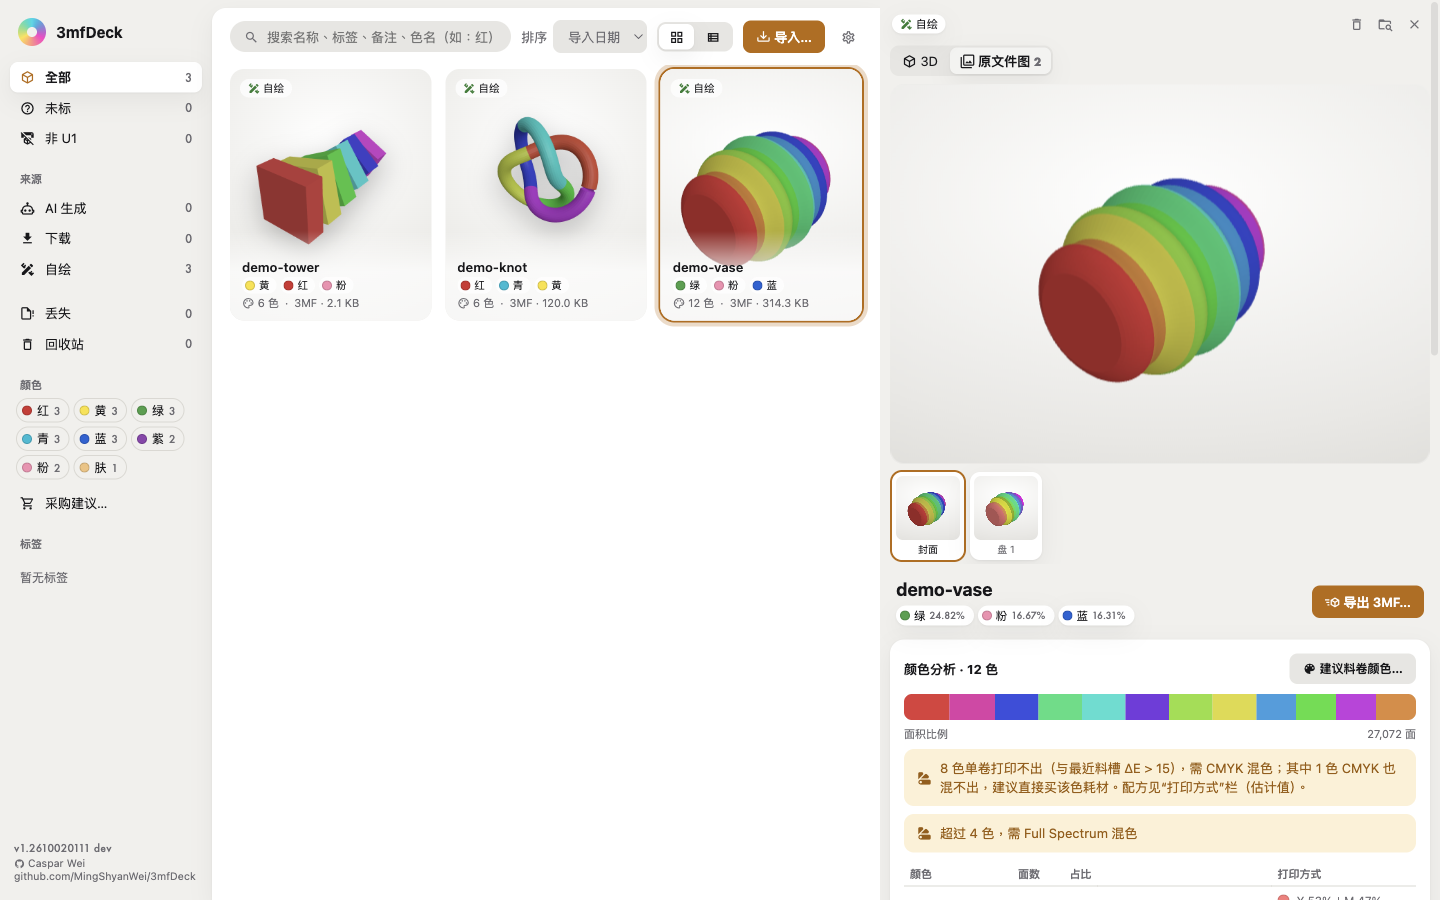
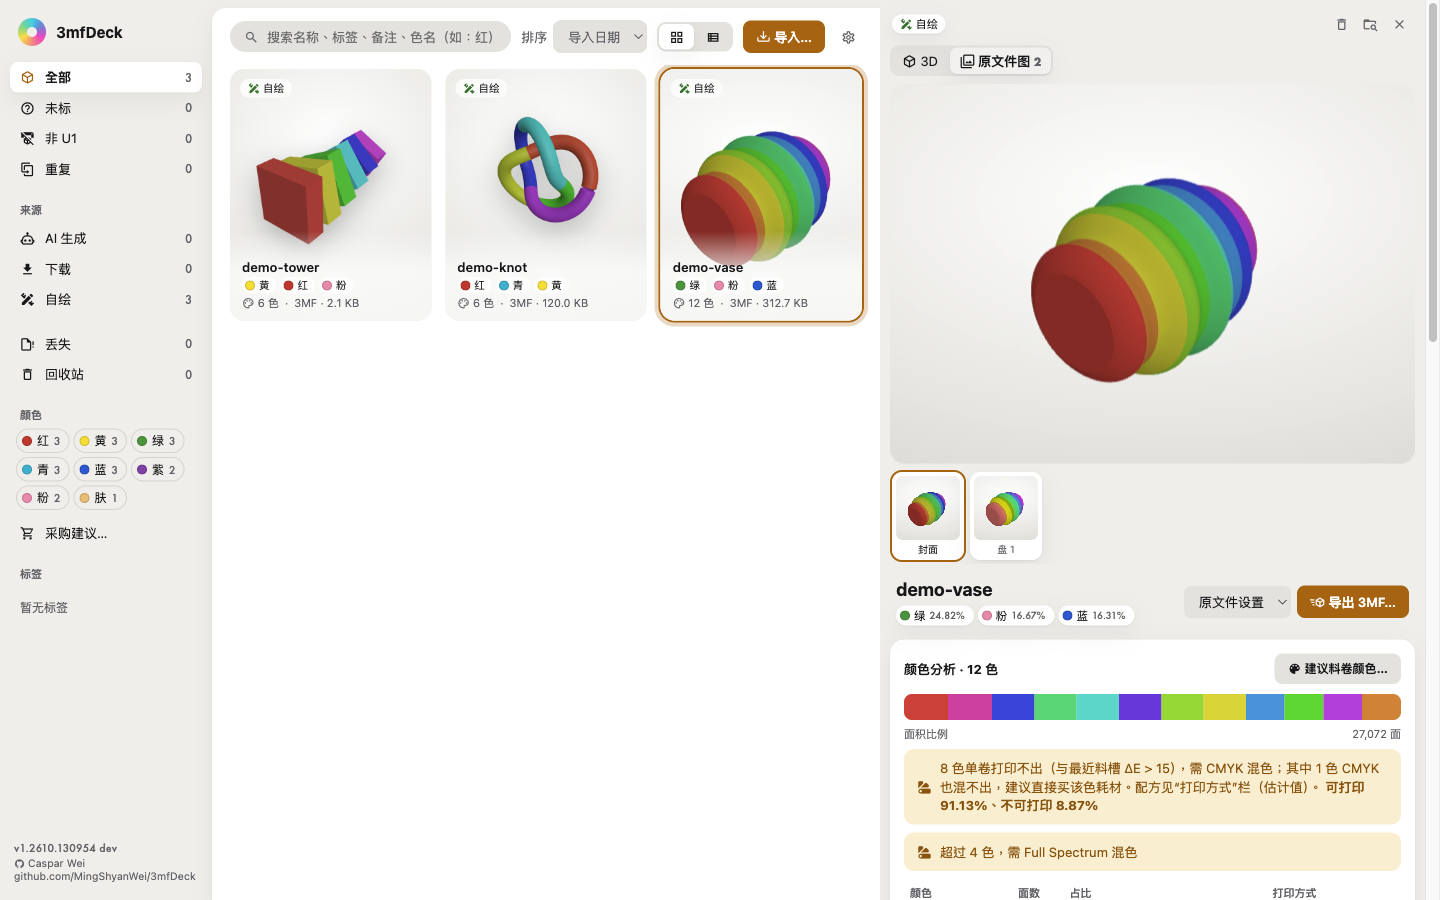
Screenshots of the M33 / M34 screens in the READMEs and user guides
The READMEs and guides describe the nozzle setting, the print-settings
drop-down and the Duplicates filter, but showed none of them.

- scripts/readme-screenshots.mjs adds three shots on the same demo
  library: 6-print-presets (demo-knot with 公仔 / Miniature and its hint),
  7-settings-nozzle, 8-duplicates (a byte-identical demo-tower copy placed
  in another folder, indexed, fingerprinted at the next start, then a
  second import of the same file skipped with its notice). The copy is
  labelled self-made like the other demo models.
- en / zh-TW / zh-CN all regenerated; shots 1-5 are re-rendered too
  (current build: the export drop-down now appears in the detail header).
- READMEs: the three shots added to the screenshot table; user guides:
  each shown in its section (first start, export, duplicates).

diff --git a/docs/user-guide.md b/docs/user-guide.md
@@ -30,6 +30,8 @@ This guide follows the order you actually work in: put files into the library, l
    - **Spool colours**: the filament colours actually loaded on the U1 (ideal CMYK by default). Colour analysis, mixing recipes and export are all computed with these.
 3. **Convert to Snapmaker U1** and the **Miniature** settings need **Snapmaker Orca** installed locally (`/Applications/Snapmaker Orca.app`). The app only reads its preset files; nothing goes online.
 
+![Nozzle size in Settings](screenshots/en/7-settings-nozzle.png)
+
 ## 2. The window
 
 | Area | What is there |
@@ -111,6 +113,8 @@ What the export does:
 - The printer and process presets follow the **nozzle size** in Settings.
 - **The original file is never modified**; every export is a new file.
 
+![The print-settings drop-down next to Export 3MF, with the Miniature hint](screenshots/en/6-print-presets.png)
+
 ## 10. Miniature settings
 
 Based on r/PrintedMinis "[FDM miniatures - How I support them and some updates](https://www.reddit.com/r/PrintedMinis/comments/1i8hcyz/fdm_miniatures_how_i_support_them_and_some_updates/)" (u/HOHansen), scaled to your nozzle. Exporting with "Miniature" writes:
@@ -155,6 +159,8 @@ Shared 3MF files are often projects for another printer (e.g. Bambu Lab). Opened
   - Not needed any more: select them and **Remove selected…** removes the records only; no file is deleted.
 - **Trash**: deleted files are kept in `<library>/.trash/` and can be **restored** one by one; **Empty trash…** deletes them for good after a second confirmation.
 - **Rebuild index**: if files are in the library folder but not indexed (e.g. copied in by hand), a notice appears at the top; **Rebuild index** adds them.
+
+![The Duplicates filter and the notice for a skipped duplicate](screenshots/en/8-duplicates.png)
 
 ## 13. Settings
 

diff --git a/docs/user-guide.zh-CN.md b/docs/user-guide.zh-CN.md
@@ -30,6 +30,8 @@
    - **料卷颜色**：U1 上实际装的耗材颜色（默认理想 CMYK）。颜色分析、混色配方、导出都用这组颜色计算。
 3. “转换为 Snapmaker U1”与“手办”设置需要本机安装 **Snapmaker Orca**（`/Applications/Snapmaker Orca.app`），App 只读取它的预设文件，不联网。
 
+![设置页的喷嘴尺寸](screenshots/zh-CN/7-settings-nozzle.png)
+
 ## 2. 界面导览
 
 | 区域 | 内容 |
@@ -111,6 +113,8 @@
 - 机型与 process 按设置页的**喷嘴尺寸**选择。
 - **原文件永远不会被修改**，导出一律是新文件。
 
+![导出按钮旁的打印设置下拉，选“手办”时的提示](screenshots/zh-CN/6-print-presets.png)
+
 ## 10. 手办设置
 
 依 r/PrintedMinis〈[FDM miniatures - How I support them and some updates](https://www.reddit.com/r/PrintedMinis/comments/1i8hcyz/fdm_miniatures_how_i_support_them_and_some_updates/)〉（u/HOHansen）的原则，换算到你的喷嘴。导出时选“手办”会写入：
@@ -155,6 +159,8 @@
   - 不要了：勾选后“移除所选…”只移除记录，不删任何文件。
 - **回收站**：删除的文件在 `<根目录>/.trash/`，可逐个“还原”回原位；“清空回收站…”需二次确认后才真的删除。
 - **重建索引**：若有文件在模型库文件夹里却不在索引中（例如手动放入），上方会提示，点“重建索引”即可收录。
+
+![“重复”筛选与重复导入的提示](screenshots/zh-CN/8-duplicates.png)
 
 ## 13. 设置页
 

diff --git a/docs/user-guide.zh-TW.md b/docs/user-guide.zh-TW.md
@@ -30,6 +30,8 @@
    - **耗材捲色**：U1 上實際裝的線材顏色（預設理想 CMYK）。顏色分析、混色配方、匯出都用這組顏色計算。
 3. 「轉換為 Snapmaker U1」與「公仔」設定需要本機安裝 **Snapmaker Orca**（`/Applications/Snapmaker Orca.app`），App 只讀它的設定檔，不連網。
 
+![設定頁的噴嘴尺寸](screenshots/zh-TW/7-settings-nozzle.png)
+
 ## 2. 畫面導覽
 
 | 區域 | 內容 |
@@ -111,6 +113,8 @@
 - 機型與 process 依設定頁的**噴嘴尺寸**選擇。
 - **原檔永遠不會被修改**，匯出一律是新檔。
 
+![匯出按鈕旁的列印設定下拉，選「公仔」時的提示](screenshots/zh-TW/6-print-presets.png)
+
 ## 10. 公仔設定
 
 依 r/PrintedMinis〈[FDM miniatures - How I support them and some updates](https://www.reddit.com/r/PrintedMinis/comments/1i8hcyz/fdm_miniatures_how_i_support_them_and_some_updates/)〉（u/HOHansen）的原則，換算到你的噴嘴。匯出時選「公仔」會寫入：
@@ -155,6 +159,8 @@
   - 不要了：勾選後「移除所選…」只移除記錄，不刪任何檔案。
 - **回收桶**：刪除的檔案在 `<根目錄>/.trash/`，可逐一「還原」回原位；「清空回收桶…」需二次確認後才真的刪除。
 - **重建索引**：若有檔案在檔案櫃資料夾裡卻不在索引中（例如手動放入），上方會提示，按「重建索引」即可收錄。
+
+![「重複」篩選與重複匯入的提示](screenshots/zh-TW/8-duplicates.png)
 
 ## 13. 設定頁
 

diff --git a/README.md b/README.md
@@ -88,6 +88,8 @@ All screenshots show the demo models generated by [`scripts/make-demo-models.mjs
 |---|---|
 | ![Colour analysis](docs/screenshots/en/2-colour-analysis.png) **Colour analysis** — area shares, colour labels, how each colour prints | ![Embedded images](docs/screenshots/en/3-embedded-images.png) **Images** — the cover and plate images embedded in the 3MF |
 | ![Spool suggestions](docs/screenshots/en/4-spool-suggestions.png) **Spool suggestions** — ideal colours, your inventory, standard sets | ![Purchase suggestions](docs/screenshots/en/5-purchase-suggestions.png) **Purchase suggestions** — which colours your library needs most |
+| ![Print settings](docs/screenshots/en/6-print-presets.png) **Print settings** — Original, Miniature or Miniature + ironing next to Export 3MF | ![Duplicates](docs/screenshots/en/8-duplicates.png) **Duplicates** — identical files grouped; a second copy is not imported |
+| ![Nozzle size](docs/screenshots/en/7-settings-nozzle.png) **Settings** — nozzle size, library folder, spool colours | |
 
 ## Formats and platforms
 

diff --git a/README.zh-CN.md b/README.zh-CN.md
@@ -88,6 +88,8 @@
 |---|---|
 | ![颜色分析](docs/screenshots/zh-CN/2-colour-analysis.png) **颜色分析**：面积占比、色名标签、每色的打印方式 | ![原文件图](docs/screenshots/zh-CN/3-embedded-images.png) **原文件图**：3MF 内嵌的封面与盘面图 |
 | ![建议料卷颜色](docs/screenshots/zh-CN/4-spool-suggestions.png) **建议料卷颜色**：理想色、从耗材库挑、标准配置 | ![采购建议](docs/screenshots/zh-CN/5-purchase-suggestions.png) **采购建议**：整个模型库最缺哪些颜色 |
+| ![打印设置](docs/screenshots/zh-CN/6-print-presets.png) **打印设置**：导出按钮旁选原文件设置、手办或手办＋熨烫 | ![重复](docs/screenshots/zh-CN/8-duplicates.png) **重复**：内容相同的文件分组列出，重复的不会再导入 |
+| ![喷嘴尺寸](docs/screenshots/zh-CN/7-settings-nozzle.png) **设置**：喷嘴尺寸、根目录、料卷颜色 | |
 
 ## 支持格式与环境
 

diff --git a/README.zh-TW.md b/README.zh-TW.md
@@ -88,6 +88,8 @@
 |---|---|
 | ![顏色分析](docs/screenshots/zh-TW/2-colour-analysis.png) **顏色分析**：面積佔比、色名標籤、每色的列印方式 | ![原檔圖](docs/screenshots/zh-TW/3-embedded-images.png) **原檔圖**：3MF 內嵌的封面與盤面圖 |
 | ![建議捲色](docs/screenshots/zh-TW/4-spool-suggestions.png) **建議捲色**：理想色、從線材庫挑、標準配置 | ![採購建議](docs/screenshots/zh-TW/5-purchase-suggestions.png) **採購建議**：整個檔案櫃最缺哪些顏色 |
+| ![列印設定](docs/screenshots/zh-TW/6-print-presets.png) **列印設定**：匯出按鈕旁選原檔設定、公仔或公仔＋熨燙 | ![重複](docs/screenshots/zh-TW/8-duplicates.png) **重複**：內容相同的檔案分組列出，重複的不會再匯入 |
+| ![噴嘴尺寸](docs/screenshots/zh-TW/7-settings-nozzle.png) **設定**：噴嘴尺寸、根目錄、耗材捲色 | |
 
 ## 支援格式與環境
 
